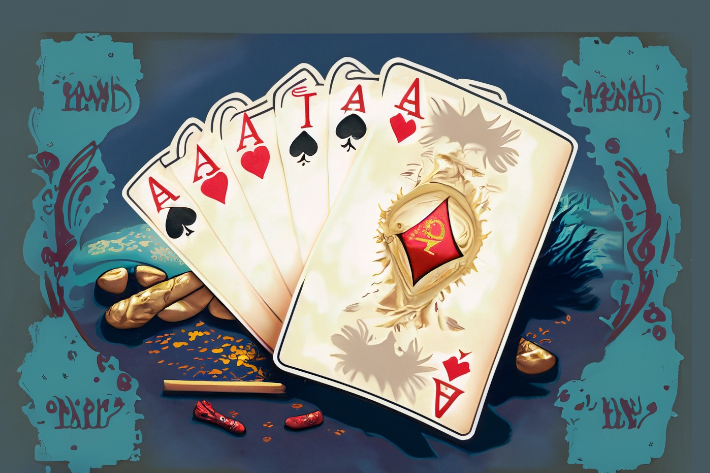
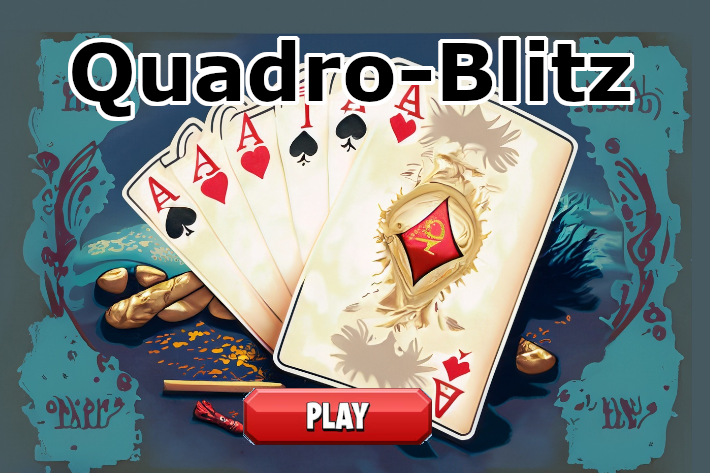
Add Start Button on Screen

Changed region(s): [[0.093, 0.0592, 0.8986, 0.2664], [0.3408, 0.7992, 0.6197, 0.9471]]

diff --git a/src/CardGame/CardGame.java b/src/CardGame/CardGame.java
@@ -113,7 +113,7 @@ public class CardGame extends JPanel implements ActionListener, MouseListener, K
             anzahlvonkarten[uuzz] = 4;
         }
         setImage();
-        Hauptspiel = true;
+        Start = true;
         repaint();
     }
 
@@ -180,8 +180,6 @@ public class CardGame extends JPanel implements ActionListener, MouseListener, K
         super.paint(g);
         if (Start == true) {
             g.drawImage(StartScreen, 0, 0, Breite, Hohe, null);
-            Start = false;
-            Hauptspiel = true;
         } else if (Hauptspiel == true) {
 
             // Card Border
@@ -773,19 +771,27 @@ public class CardGame extends JPanel implements ActionListener, MouseListener, K
         int x = e.getX();
         int y = e.getY();
         System.out.println("x = " + x + " | y = " + y);
-        if (x > 400 && x < 445 && y > 390 && y < 440) {
-            System.out.println("Links");
-            MouseEvents.Selected_Deck_Field_to_Left();
-            repaint();
+        if (Start == true) {
+            if (x > 315 && x < 545 && y > 605 && y < 680) {
+                System.out.println("Start");
+                Start = false;
+                Hauptspiel = true;
+            }
         }
+        if (YouCanplay == true && Hauptspiel == true) {
 
-        if (x > 470 && x < 515 && y > 390 && y < 440) {
-            System.out.println("Rechts");
-            MouseEvents.Selected_Deck_Field_to_Right();
-            repaint();
-        }
+            if (x > 400 && x < 445 && y > 390 && y < 440) {
+                System.out.println("Links");
+                MouseEvents.Selected_Deck_Field_to_Left();
+                repaint();
+            }
 
-        if (YouCanplay == true) {
+            if (x > 470 && x < 515 && y > 390 && y < 440) {
+                System.out.println("Rechts");
+                MouseEvents.Selected_Deck_Field_to_Right();
+                repaint();
+            }
+
             if (x > 810 && x < 875 && y > 410 && y < 500) {
                 System.out.println("Mischen");
                 System.out.println("--------");
@@ -794,7 +800,6 @@ public class CardGame extends JPanel implements ActionListener, MouseListener, K
                     if (rndm == 0) {
                         rndm = 1;
                     }
-//					System.out.println("rndm = " + rndm);
                     ArrayHand[MarvinLOL] = rndm;
                 }
                 for (int uuzz = 0; uuzz < anzahlvonkarten.length; uuzz++) {
@@ -804,8 +809,7 @@ public class CardGame extends JPanel implements ActionListener, MouseListener, K
                 YouCanplay = false;
                 kiPlay();
             }
-        }
-        if (YouCanplay == true) {
+
             if (x > 145 && x < 285 && y > 480 && y < 675) {
                 // Karte 1
                 MouseEvents.PlayCard(0);
